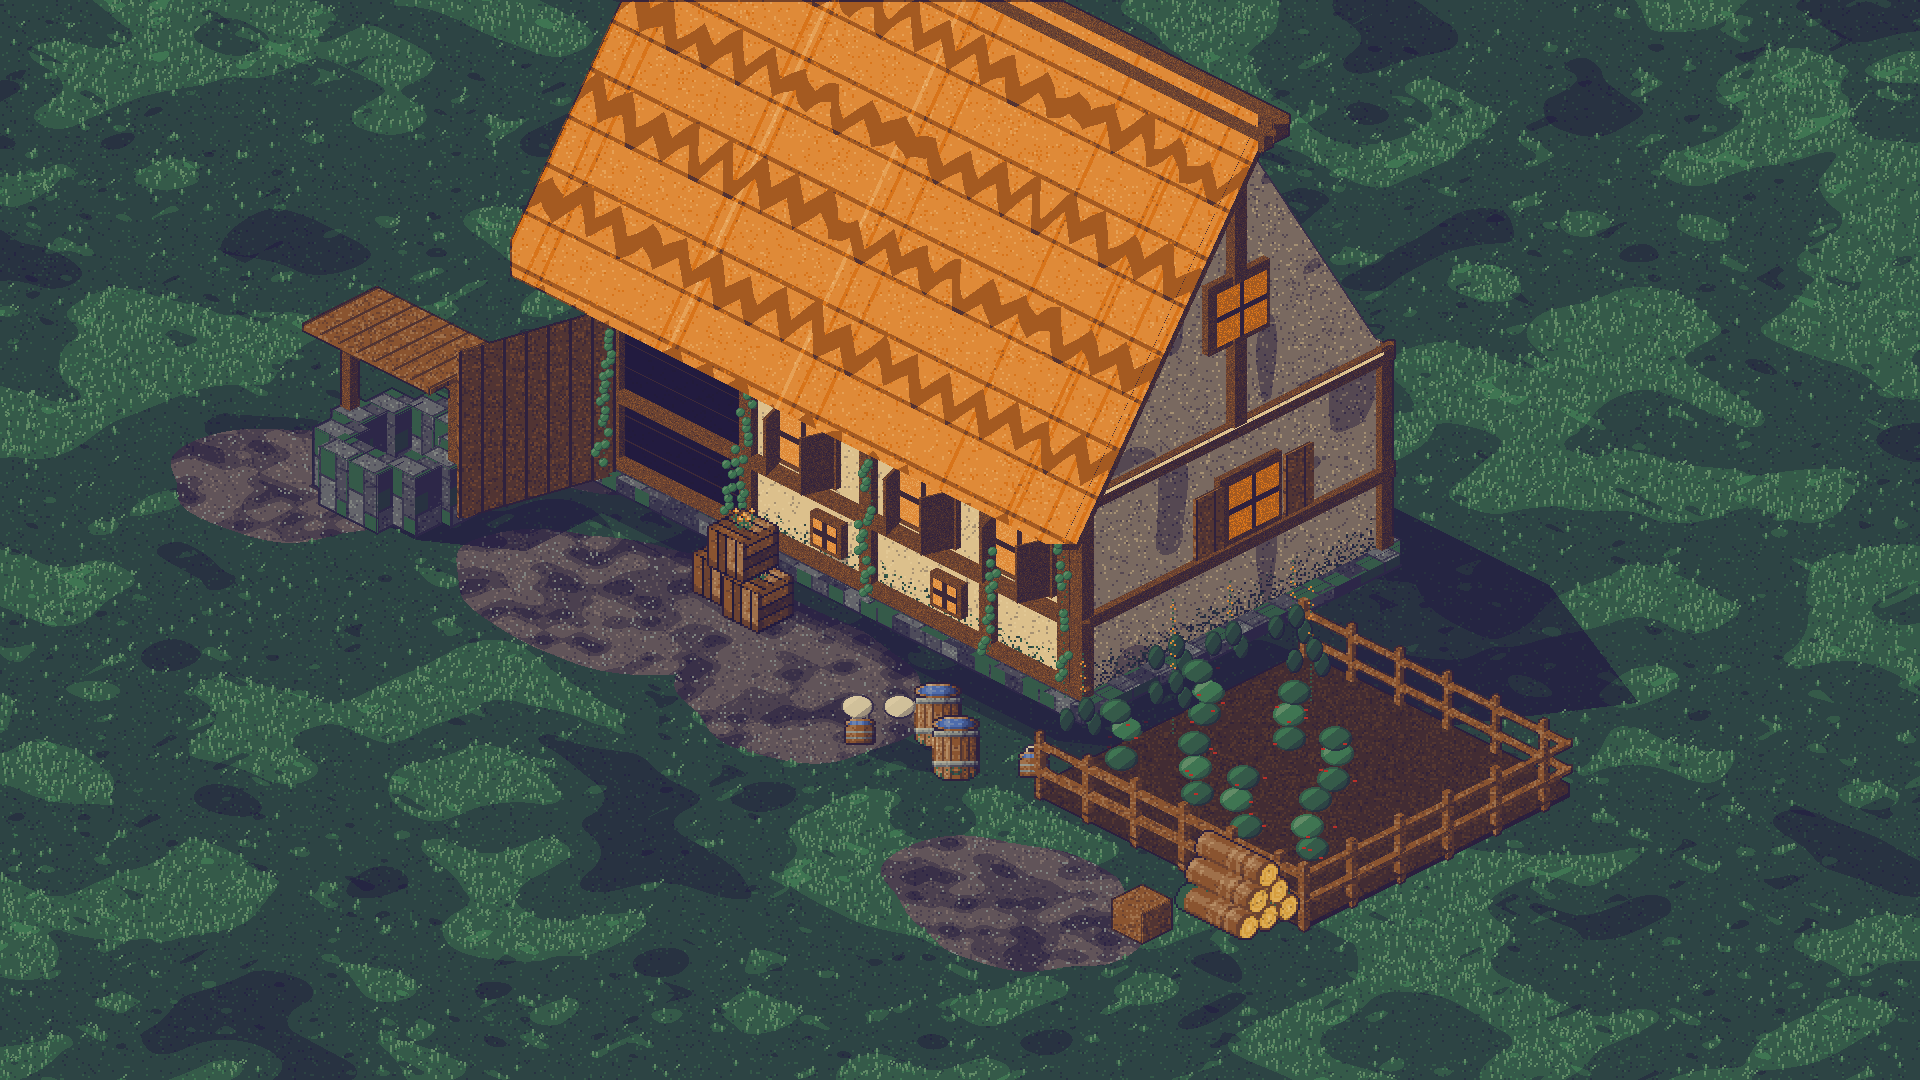
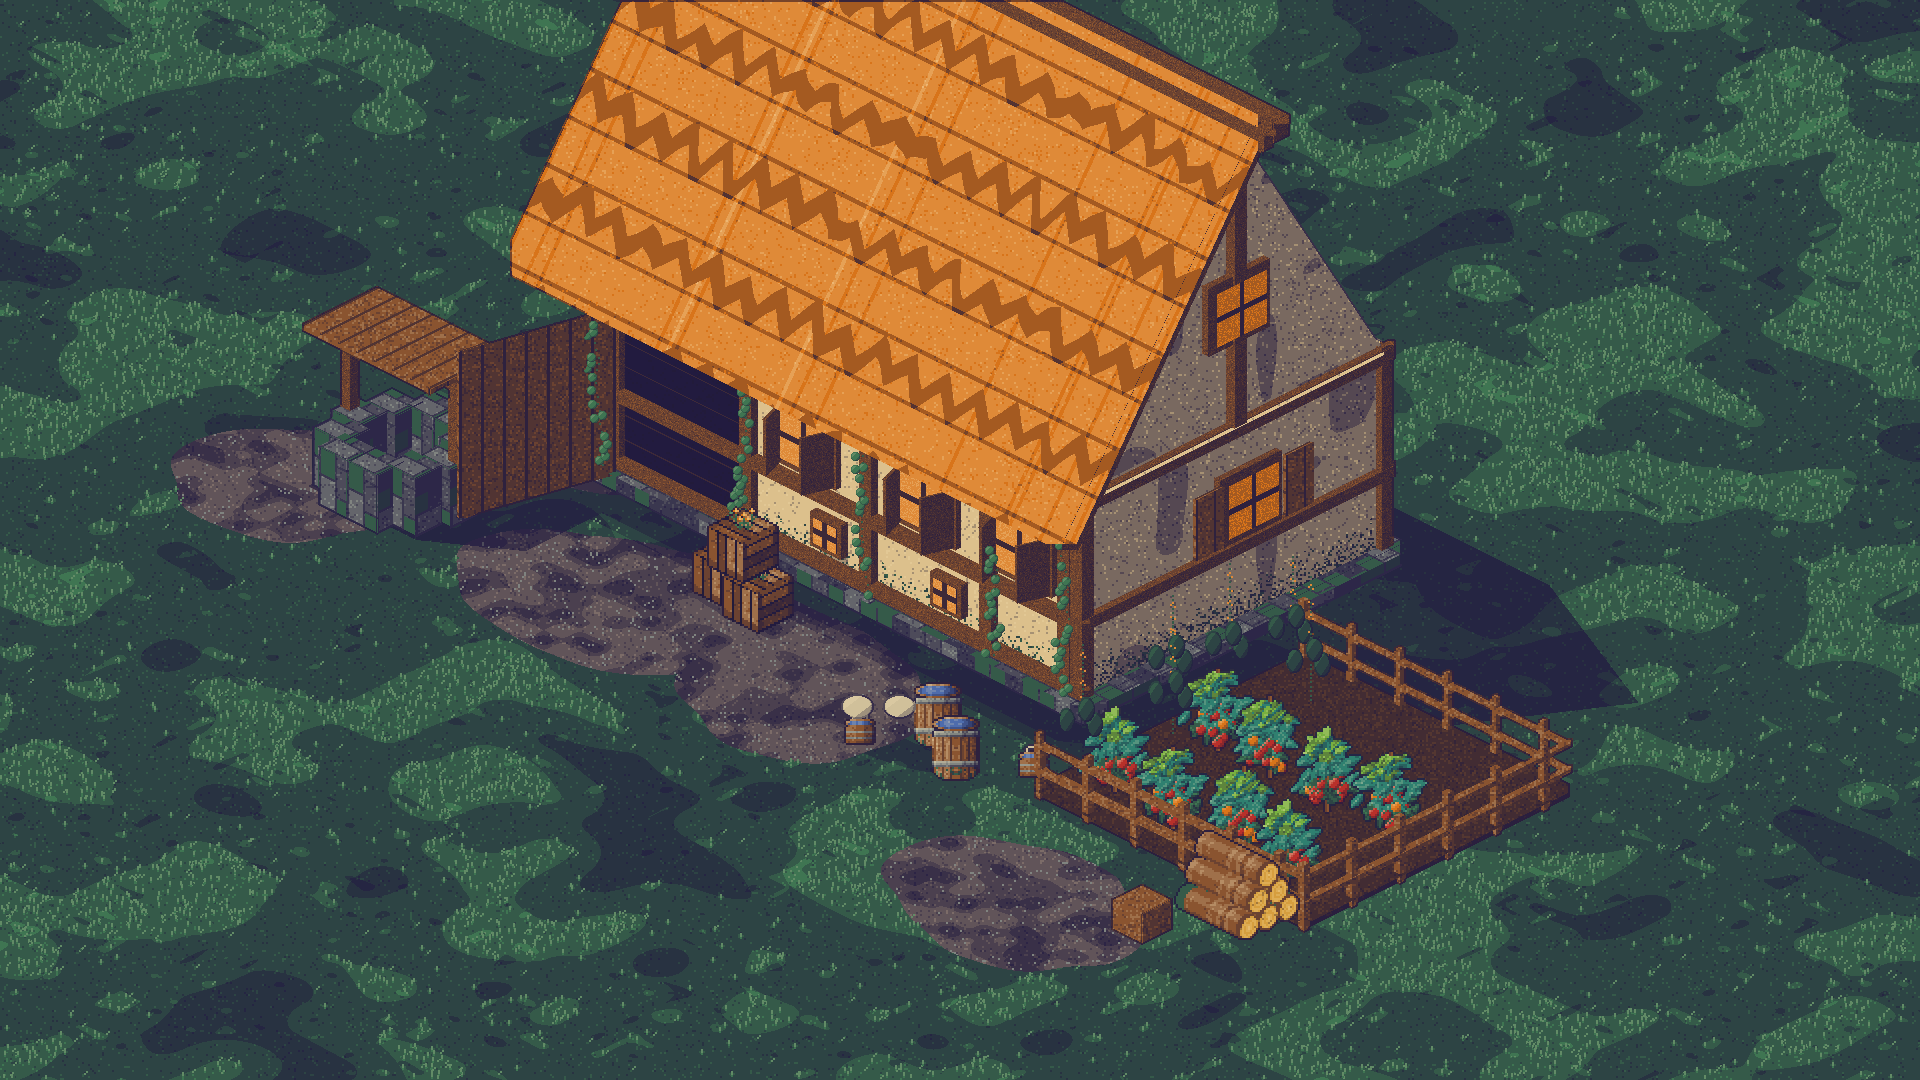
トマトの株を小物として作り直し、見本の色（青緑・黄緑の葉と赤い実）にする

diff --git a/games/farmhouse/pixel/props.py b/games/farmhouse/pixel/props.py
@@ -156,9 +156,66 @@ def logs():
                 code[py, px] = tok
     return write("logs", code.tolist(), "# 丸太の山（6本）\n@size %d %d\n@outline sel" % (Wd, Ht))
 
+
+# ---------------------------------------------------------------- トマトの株（見本：葉は暗い緑・青緑・黄緑、実は赤）
+def tomato(seed, Wd=46, Ht=54):
+    r = np.random.default_rng(seed)
+    code = np.full((Ht, Wd), "..", dtype="<U2"); zb_ = np.full((Ht, Wd), -9.0)
+    cx0, base = Wd // 2, Ht - 6
+    def put(x, y, t, d):
+        if 0 <= x < Wd and 0 <= y < Ht and d >= zb_[y, x]: code[y, x] = t; zb_[y, x] = d
+    # 支柱と茎
+    for y in range(8, base + 1):
+        put(cx0, y, "D3", -1); put(cx0 + 1, y, "D4", -1)
+    items = []
+    for _ in range(58):                                           # 葉
+        z = r.uniform(.12, 1.0); a = r.uniform(0, 2 * math.pi)
+        rad = r.uniform(.25, 1.0) * (6 + 12 * math.sin(math.pi * min(1, z * .9 + .1)))
+        x = cx0 + rad * math.cos(a); y = base - 4 - z * 32 + math.sin(a) * rad * .32
+        d = math.sin(a) + z * .5
+        ang = math.atan2(y - (base - 4 - z * 32), x - cx0) + r.normal(0, .5) - .25
+        items.append(("leaf", d, x, y, ang, r.uniform(3.4, 5.6), r.uniform(1.7, 2.7), z))
+    for _ in range(15):                                           # 実
+        z = r.uniform(.1, .62); a = r.uniform(0, 2 * math.pi); rad = r.uniform(.4, 1.0) * (8 + 7 * z)
+        x = cx0 + rad * math.cos(a); y = base - 4 - z * 30 + math.sin(a) * rad * .32 + 3
+        items.append(("fruit", math.sin(a) + z * .5 + .35, x, y, r.choice(["ripe"] * 12 + ["orange"]), r.uniform(2.1, 2.9), 0, z))
+    items.sort(key=lambda t: t[1])
+    for it in items:
+        kind, d, x, y = it[:4]
+        if kind == "leaf":
+            ang, a_, b_, z = it[4:8]; ca, sa = math.cos(ang), math.sin(ang)
+            for py in range(int(y - a_ - 2), int(y + a_ + 3)):
+                for px in range(int(x - a_ - 2), int(x + a_ + 3)):
+                    dx, dy = px + .5 - x, py + .5 - y
+                    u, v = dx * ca + dy * sa, -dx * sa + dy * ca
+                    if abs(u) >= a_: continue
+                    w = b_ * math.sqrt(max(0, 1 - (u / a_) ** 2)) * (1 - .3 * (u / a_))
+                    if abs(v) > w: continue
+                    lit = (-dx * .7 - dy * .7) / (a_ + 1)                # 左上が明るい
+                    if z > .72 and lit > -.05: fam_, s = "O", 3 + (lit > .2) + (h(px, py, 41) > .8) - (h(int(x), int(y), 44) > .6)
+                    elif z > .3: fam_, s = "P", 3 + (lit > 0) + (h(px, py, 42) > .85)
+                    else: fam_, s = "E", 2 + (lit > .1) + (h(px, py, 43) > .85)
+                    if abs(v) < .55 and u > -a_ * .6: s += 1                  # 葉脈
+                    if abs(v) > w * .8 and lit < 0: s -= 1
+                    put(px, py, f"{fam_}{max(0, min(7, s))}", d)
+        else:
+            kindc, rr = it[4], it[5]
+            for py in range(int(y - rr - 1), int(y + rr + 2)):
+                for px in range(int(x - rr - 1), int(x + rr + 2)):
+                    dx, dy = px + .5 - x, py + .5 - y; q = (dx * dx + dy * dy) / (rr * rr)
+                    if q > 1: continue
+                    lit = (-dx - dy) / rr
+                    f_ = "G" if kindc == "ripe" else "H"; s = 4 + (lit > .5) + (lit > .9) - (lit < -.5) - (q > .75)
+                    if lit > .85 and kindc == "ripe": f_, s = "G", 6
+                    put(px, py, f"{f_}{max(0, min(7, s))}", d + .01)
+            put(int(x), int(y - rr), "E4", d + .02); put(int(x) - 1, int(y - rr + 1), "E3", d + .02)   # へた
+    ys, xs = np.nonzero(code != ".."); y0, y1, x0, x1 = ys.min(), ys.max(), xs.min(), xs.max()
+    code = code[y0 - 1: y1 + 2, x0 - 1: x1 + 2]
+    return write(f"tomato{seed}", code.tolist(), "# トマトの株（葉は暗緑・青緑・黄緑、実は赤とだいだい）\n@size %d %d\n@outline sel" % (code.shape[1], code.shape[0]))
+
 if __name__ == "__main__":
-    for fn in (barrel, bucket, crate, logs):
+    for fn in (barrel, bucket, crate, logs, lambda: tomato(1), lambda: tomato(2), lambda: tomato(3)):
         p = fn(); code, img, pal = pxl.build(p)
         from PIL import Image
         base = os.path.splitext(p)[0]; Image.fromarray(img).save(base + ".png"); pxl.zoom(img, code, pal, 12).save(base + "_zoom.png")
-        print(fn.__name__, img.shape[1], "x", img.shape[0])
+        print(os.path.basename(p), img.shape[1], "x", img.shape[0])

diff --git a/games/farmhouse/pixel/iso.py b/games/farmhouse/pixel/iso.py
@@ -332,12 +332,11 @@ def props():
     for (cx, cy, cz) in ((-1.0, -2.4, 0), (-.35, -2.55, 0), (-.7, -2.45, .5)): stamp(crate, np.array([cx + .28, cy - .28, cz]), k)
     stamp(logs, np.array([9.0, -3.9, 0.]), k)
     for (x, y) in ((2.5, -3.05), (2.15, -3.4)): blob(np.array([x, y, 0.]), 4, 3, 'C', 4)   # 麻袋
-    # トマト
-    for i in range(7):
-        px_ = 5.7 + (i % 4) * 1.0 + rng.uniform(-.1, .1); py_ = -2.4 + (i // 4) * 1.5 + rng.uniform(-.2, .2)
-        for j in range(3): blob(np.array([px_ + rng.uniform(-.1, .1), py_ + rng.uniform(-.1, .1), .35 + j * .3]), 4, 3, 'E', 3 + (j % 2))
-        for j in range(5):
-            a_ = rng.uniform(0, 6.28); dots(np.array([px_ + .22 * math.cos(a_), py_ + .22 * math.sin(a_), .5 + rng.uniform(0, .6)]), 'G', 4, [(0, 0), (1, 0)])
+    # トマト（株ごとの小物の絵を置く）
+    plants = [load_sprite(f"tomato{i}") for i in (1, 2, 3)]
+    for i in range(8):
+        px_ = 5.6 + (i % 4) * 1.0 + rng.uniform(-.1, .1); py_ = -2.5 + (i // 4) * 1.5 + rng.uniform(-.15, .15)
+        stamp(plants[i % 3], np.array([px_, py_, 0.]), k)
     # 背の高いだいだいの花
     for (fx, fy) in ((4.7, -2.2), (5.0, -1.0), (4.65, .3), (4.9, 1.1), (5.6, .7), (4.4, -.4)):
         hgt = rng.uniform(1.3, 1.7)
